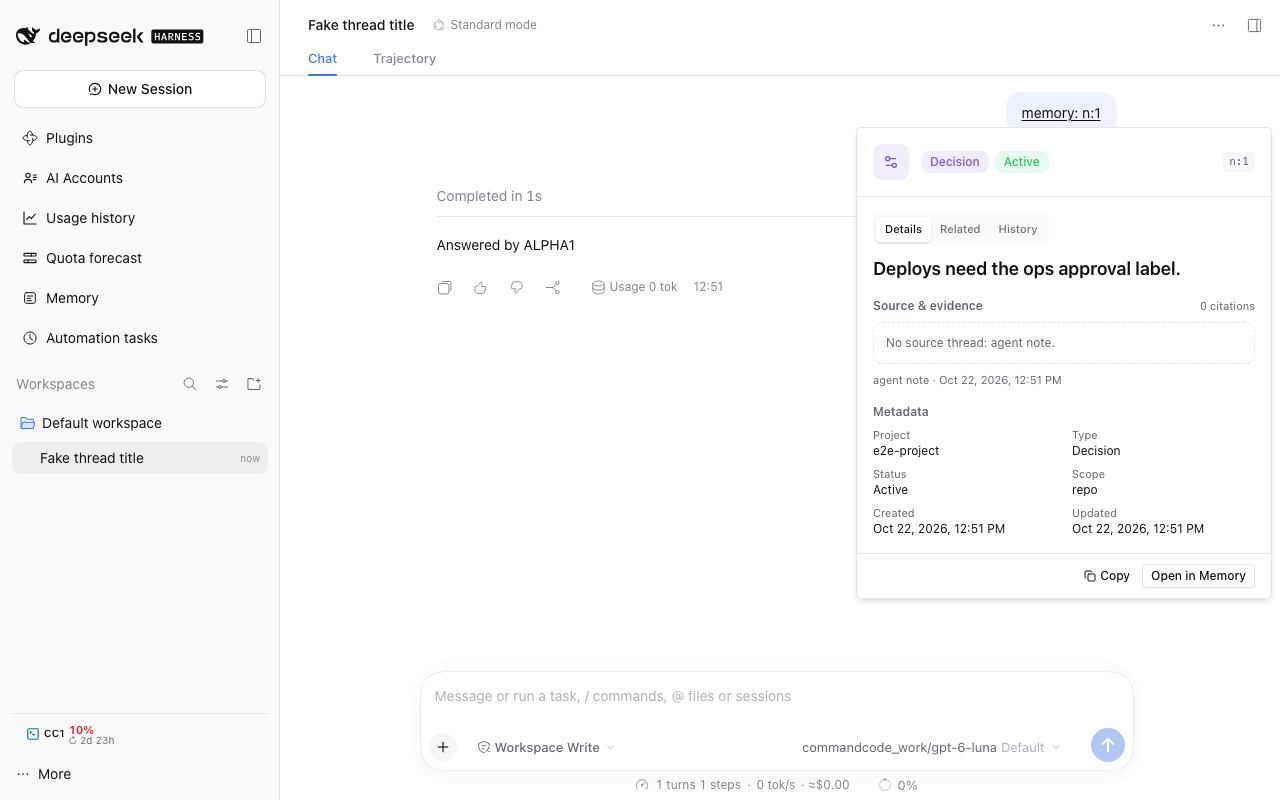
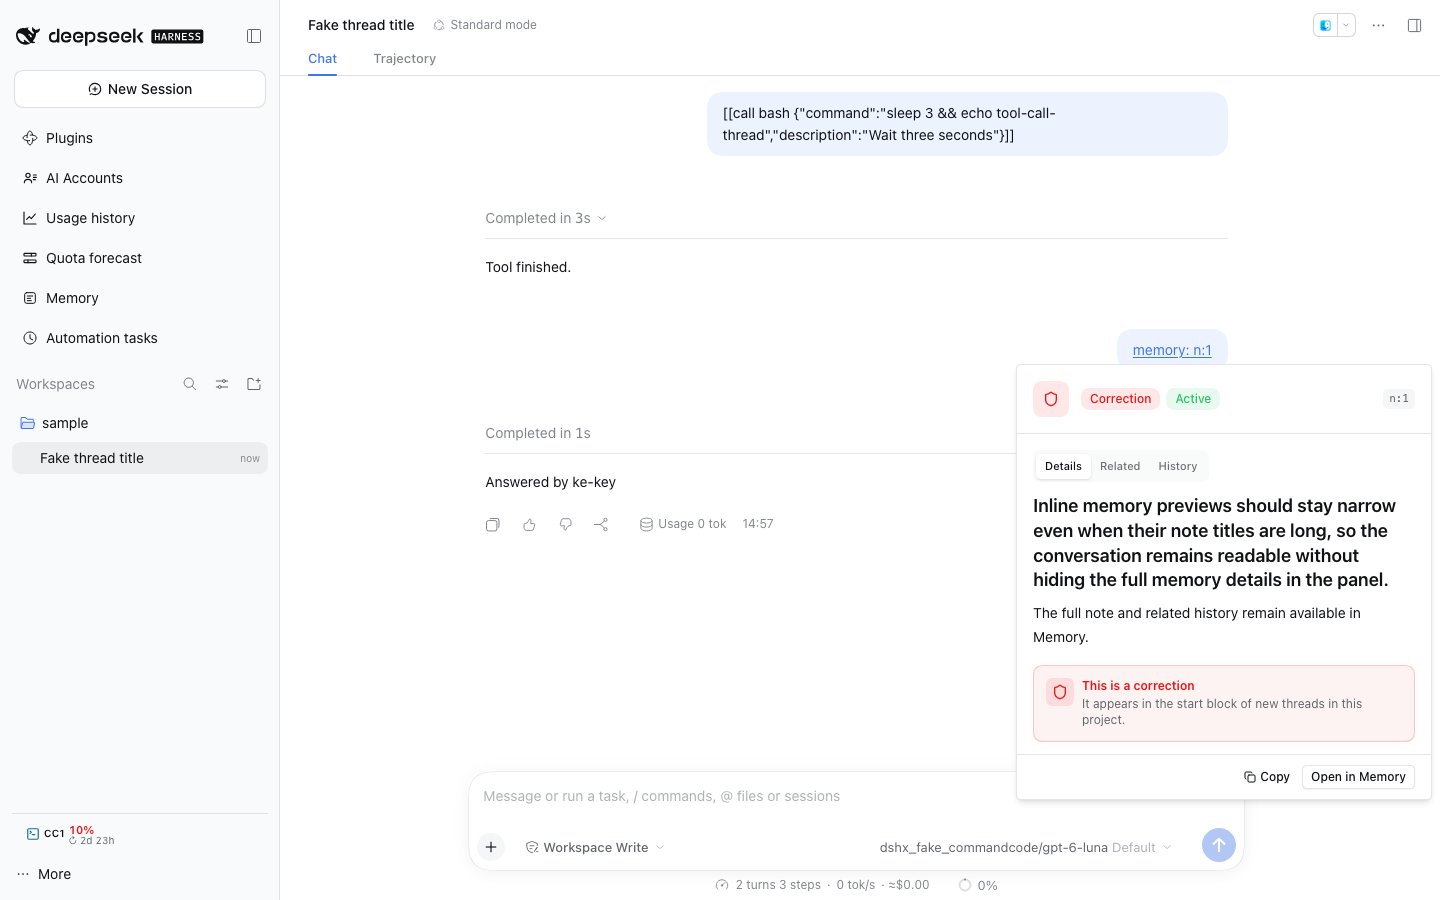
fix(memory): cap inline memory previews
Use fixed widths for note/digest and excerpt previews, constrained by the
viewport, and limit the scroll region. This prevents long titles or excerpts
from turning a citation popover into a wide, tall panel while keeping details
reachable.

Add dimension checks at the reported viewport and refresh the screenshot.

diff --git a/tooling/dshx/e2e/support/plugin-journeys/memory.steps.ts b/tooling/dshx/e2e/support/plugin-journeys/memory.steps.ts
@@ -102,6 +102,12 @@ Then('the inline excerpt preview shows {string}', async ({ page }: { page: Page 
     await expect(preview.getByText('Thread excerpt', { exact: true })).toBeVisible()
     const excerpt = preview.locator('[data-dshfiles-memory-body]')
     await expect(excerpt).toContainText(text)
+    const previewSize = await preview.evaluate(element => {
+      const bounds = element.getBoundingClientRect()
+      return { width: bounds.width, height: bounds.height }
+    })
+    expect(previewSize.width).toBeLessThanOrEqual(560)
+    expect(previewSize.height).toBeLessThanOrEqual(480)
     // The excerpt keeps raw log lines as a bounded monospace block, not prose.
     const fontFamily = await excerpt.evaluate(element => getComputedStyle(element).fontFamily)
     expect(fontFamily.toLowerCase()).toContain('mono')
@@ -112,6 +118,7 @@ Then('the inline excerpt preview shows {string}', async ({ page }: { page: Page 
 
 Then('the inline memory preview shows {string}', async ({ page }: { page: Page }, text: string) => {
   await recordAssertion(page, 'memory-reference-inline-preview', async () => {
+    await page.setViewportSize({ width: 1986, height: 736 })
     const reference = page.locator('[data-dshfiles-memory-reference="n:1"]')
     await expect(reference).toBeVisible()
     const preview = page.locator('[data-dshfiles-memory-preview]')
@@ -133,7 +140,9 @@ Then('the inline memory preview shows {string}', async ({ page }: { page: Page }
     const fontSize = await previewTitle.evaluate(element => Number.parseFloat(getComputedStyle(element).fontSize))
     expect(fontSize).toBeGreaterThanOrEqual(15)
     const previewWidth = await preview.evaluate(element => element.getBoundingClientRect().width)
-    expect(previewWidth).toBeLessThanOrEqual(560)
+    const previewHeight = await preview.evaluate(element => element.getBoundingClientRect().height)
+    expect(previewWidth).toBeLessThanOrEqual(432)
+    expect(previewHeight).toBeLessThanOrEqual(480)
     await expect(preview.getByRole('button', { name: 'Copy', exact: true })).toBeEnabled()
     await expect(preview.getByRole('tab', { name: 'Related', exact: true })).toBeVisible()
   })

diff --git a/plugins/@dshfiles/memory/src/memory-reference-overlay.tsx b/plugins/@dshfiles/memory/src/memory-reference-overlay.tsx
@@ -463,7 +463,7 @@ export const MemoryReferenceOverlay = (props: {
         collisionPadding={8}
         className={cn(
           'dshx-root dshx:flex dshx:max-w-[calc(100vw-1rem)] dshx:flex-col dshx:gap-0 dshx:overflow-hidden dshx:p-0',
-          card?.kind === 'excerpt' ? 'dshx:w-[44rem]' : 'dshx:w-auto dshx:min-w-[26rem] dshx:max-w-[34rem]',
+          card?.kind === 'excerpt' ? 'dshx:w-[34rem]' : 'dshx:w-[26rem]',
         )}
         data-dshfiles-memory-preview
       >
@@ -480,7 +480,7 @@ export const MemoryReferenceOverlay = (props: {
             <CardHeader card={card} request={request} />
           )}
         </div>
-        <div className="dshx:flex dshx:min-h-0 dshx:flex-col dshx:gap-4 dshx:overflow-auto dshx:p-4 dshx:[max-height:min(26rem,58vh)]">
+        <div className="dshx:flex dshx:min-h-0 dshx:flex-col dshx:gap-4 dshx:overflow-auto dshx:p-4 dshx:[max-height:min(20rem,48vh)]">
           {preview.isPending && card === undefined ? (
             <div className="dshx:flex dshx:flex-col dshx:gap-2">
               <Skeleton className="dshx:h-4 dshx:w-11/12" />

diff --git a/plugins/@dshfiles/memory/README.md b/plugins/@dshfiles/memory/README.md
@@ -42,7 +42,7 @@ Cross-thread, cross-project memory for DSH that leaves the live context and the 
   `@dshfiles/memory/api`.
 - **Citations as usage.** The block asks agents to cite memory they used as `memory: <id>`. A citation marks the tool
   call that returned the id as used and ranks the cited item higher in later blocks. In conversation replies, citations
-  are clickable links that open a wide inline preview of the note, digest or bounded message excerpt, with an
+  are clickable links that open a compact, scrollable inline preview of the note, digest or bounded message excerpt, with an
   **Open in Memory** button that takes the same item to the Memory page (notes open their detail, digests open their
   row). The whole `memory: <id>` token carries the link, and the preview uses the `preview` API method, which does not
   create a synthetic memory-tool usage record.
